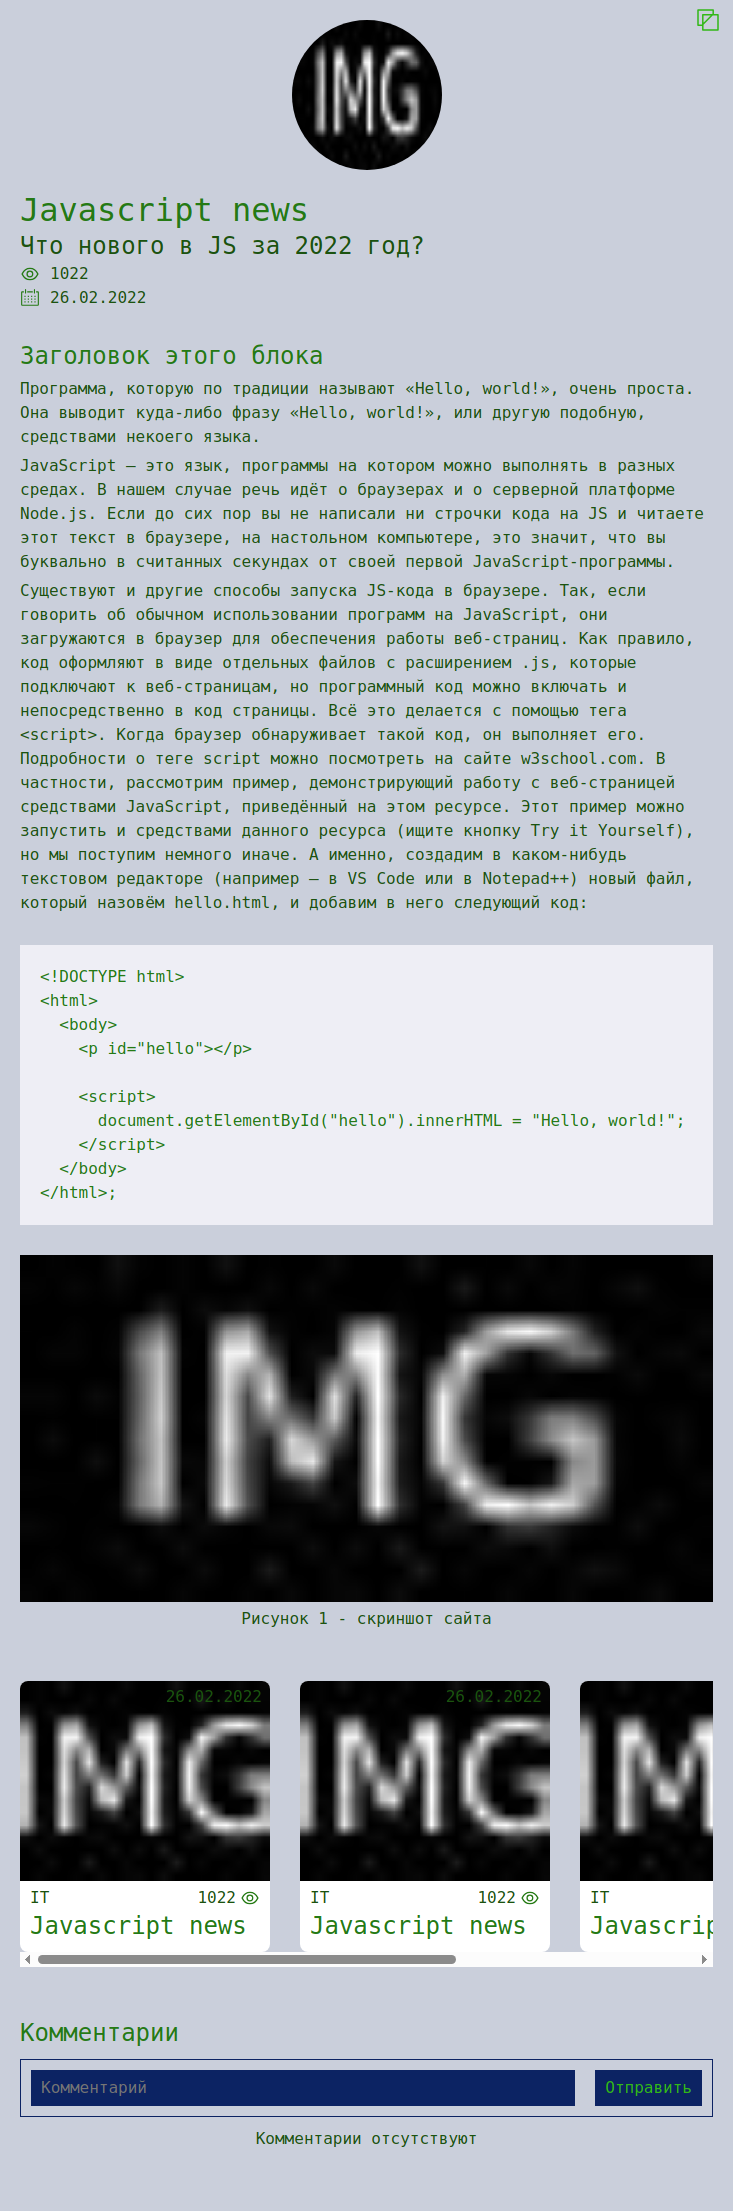
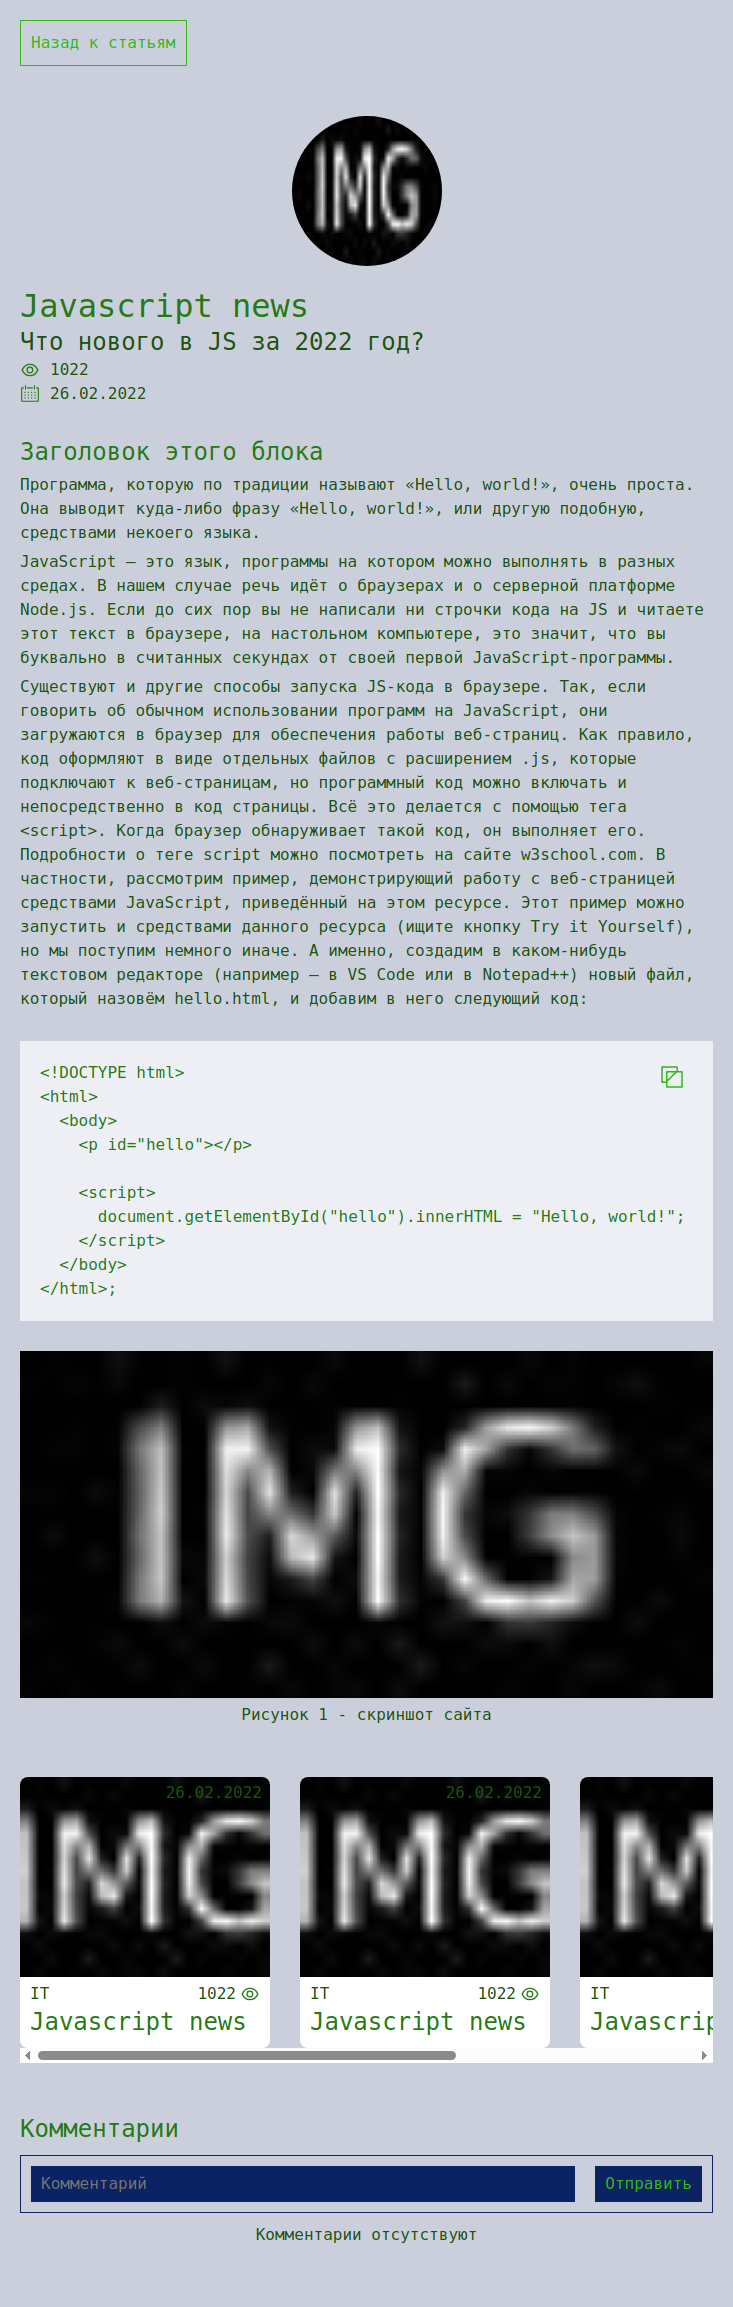
61

diff --git a/src/shared/config/routerConfig/routerConfig.tsx b/src/shared/config/routerConfig/routerConfig.tsx
@@ -1,5 +1,6 @@
 import { AboutPageLazy } from "@/pages/AboutPage";
 import { ArticleDetailsPageLazy } from "@/pages/ArticleDetailsPage";
+import { ArticleEditPageLazy } from "@/pages/ArticleEditPage";
 import { ArticlesPageLazy } from "@/pages/ArticlesPage";
 import { MainPageLazy } from "@/pages/MainPage";
 import { NotFoundPageLazy } from "@/pages/NotFoundPage";
@@ -17,6 +18,8 @@ export enum AppRoutes {
   ABOUT = "about",
   PROFILE = "profile",
   ARTICLES = "articles",
+  ARTICLE_CREATE = "article_create",
+  ARTICLE_EDIT = "article_edit",
   NOT_FOUND = "not_found",
 }
 
@@ -25,6 +28,8 @@ export const RoutePath: Record<AppRoutes, string> = {
   [AppRoutes.ABOUT]: "/about",
   [AppRoutes.PROFILE]: "/profile",
   [AppRoutes.ARTICLES]: "/articles",
+  [AppRoutes.ARTICLE_CREATE]: "/articles/new",
+  [AppRoutes.ARTICLE_EDIT]: "/articles/:id/edit",
   [AppRoutes.NOT_FOUND]: "*",
 };
 
@@ -40,6 +45,16 @@ export const routeConfig: RouteItem[] = [
   {
     path: `${RoutePath.articles}/:id`,
     element: <ArticleDetailsPageLazy />,
+    authOnly: true,
+  },
+  {
+    path: RoutePath.article_create,
+    element: <ArticleEditPageLazy />,
+    authOnly: true,
+  },
+  {
+    path: RoutePath.article_edit,
+    element: <ArticleEditPageLazy />,
     authOnly: true,
   },
   { path: RoutePath.not_found, element: <NotFoundPageLazy /> },

diff --git a/src/pages/ArticleDetailsPage/ui/ArticleDetailsHeader/AritcleDetailsHeader.tsx b/src/pages/ArticleDetailsPage/ui/ArticleDetailsHeader/AritcleDetailsHeader.tsx
@@ -1,0 +1,39 @@
+import { RoutePath } from "@/shared/config";
+import { classNames } from "@/shared/lib";
+import { useAppSelector } from "@/shared/model";
+import { AppLink } from "@/shared/ui";
+import { memo } from "react";
+import { useTranslation } from "react-i18next";
+import { getCanEditArticle } from "../../model/selectors/article";
+import styles from "./AritcleDetailsHeader.module.scss";
+
+interface AritcleDetailsHeaderProps {
+  className?: string;
+  articleId: string;
+}
+
+export const AritcleDetailsHeader = memo(function AritcleDetailsHeader({
+  className,
+  articleId,
+}: AritcleDetailsHeaderProps) {
+  const canEdit = useAppSelector(getCanEditArticle);
+  const { t } = useTranslation("articleDetailsPage", {
+    keyPrefix: "AritcleDetailsHeader",
+  });
+
+  return (
+    <div className={classNames(styles.header, {}, [className])}>
+      <AppLink to={RoutePath.articles} variant="outline">
+        {t("Назад к статьям")}
+      </AppLink>
+      {canEdit && (
+        <AppLink
+          to={RoutePath.article_edit.replace(":id", articleId)}
+          variant="outline"
+        >
+          {t("Редактировать статью")}
+        </AppLink>
+      )}
+    </div>
+  );
+});

diff --git a/src/pages/ArticleDetailsPage/ui/ArticleDetailsHeader/AritcleDetailsHeader.stories.tsx b/src/pages/ArticleDetailsPage/ui/ArticleDetailsHeader/AritcleDetailsHeader.stories.tsx
@@ -1,0 +1,29 @@
+import { mockArticle } from "@/entities/Article";
+import { mockUser } from "@/entities/User";
+import { withRouterProvider, withStoreProvider } from "@/shared/lib/decorators";
+import type { Meta, StoryObj } from "@storybook/react";
+import { AritcleDetailsHeader } from "./AritcleDetailsHeader";
+
+const meta = {
+  title: "pages/ArticleDetailsPage/AritcleDetailsHeader",
+  component: AritcleDetailsHeader,
+  decorators: [withRouterProvider()],
+} satisfies Meta<typeof AritcleDetailsHeader>;
+
+export default meta;
+type Story = StoryObj<typeof meta>;
+
+export const Default: Story = {
+  decorators: [withStoreProvider()],
+  args: { articleId: "1" },
+};
+
+export const CanEdit: Story = {
+  decorators: [
+    withStoreProvider({
+      user: { user: mockUser, _initialized: true },
+      articleDetails: { isLoading: false, data: mockArticle },
+    }),
+  ],
+  args: { articleId: "1" },
+};

diff --git a/src/pages/ArticleEditPage/ui/ArticleEditPage/ArticleEditPage.stories.tsx b/src/pages/ArticleEditPage/ui/ArticleEditPage/ArticleEditPage.stories.tsx
@@ -1,0 +1,27 @@
+import { withRouterProvider, withStoreProvider } from "@/shared/lib/decorators";
+import type { Meta, StoryObj } from "@storybook/react";
+import { ArticleEditPage } from "./ArticleEditPage";
+
+const meta = {
+  title: "pages/ArticleEditPage/ArticleEditPage",
+  component: ArticleEditPage,
+  decorators: [withStoreProvider()],
+} satisfies Meta<typeof ArticleEditPage>;
+
+export default meta;
+type Story = StoryObj<typeof meta>;
+
+export const Create: Story = {
+  decorators: [
+    withRouterProvider({ path: "/articles/new", route: "/articles/new" }),
+  ],
+};
+
+export const Edit: Story = {
+  decorators: [
+    withRouterProvider({
+      path: "/articles/:id/edit",
+      route: "/articles/1/edit",
+    }),
+  ],
+};

diff --git a/src/app/types/i18n.d.ts b/src/app/types/i18n.d.ts
@@ -1,6 +1,7 @@
 import "i18next";
 import aboutPage from "../../../public/locales/ru/aboutPage.json";
 import articleDetailsPage from "../../../public/locales/ru/articleDetailsPage.json";
+import articleEditPage from "../../../public/locales/ru/articleEditPage.json";
 import mainPage from "../../../public/locales/ru/mainPage.json";
 import notFoundPage from "../../../public/locales/ru/notFoundPage.json";
 import profilePage from "../../../public/locales/ru/profilePage.json";
@@ -16,6 +17,7 @@ declare module "i18next" {
       profilePage: typeof profilePage;
       notFoundPage: typeof notFoundPage;
       articleDetailsPage: typeof articleDetailsPage;
+      articleEditPage: typeof articleEditPage;
     };
   }
 }

diff --git a/src/pages/ArticleDetailsPage/ui/ArticleDetailsPage/ArticleDetailsPage.tsx b/src/pages/ArticleDetailsPage/ui/ArticleDetailsPage/ArticleDetailsPage.tsx
@@ -16,6 +16,7 @@ import {
   getIsLoading,
 } from "../../model/slices/articleCommentsSlice";
 import { getArticleRecomendations } from "../../model/slices/articleDetailsPageSlice";
+import { AritcleDetailsHeader } from "../ArticleDetailsHeader/AritcleDetailsHeader";
 import styles from "./ArticleDetailsPage.module.scss";
 
 export const ArticleDetailsPage: FC = memo(function ArticleDetailsPage() {
@@ -46,6 +47,7 @@ export const ArticleDetailsPage: FC = memo(function ArticleDetailsPage() {
 
   return (
     <Page className={styles.articleDetails}>
+      <AritcleDetailsHeader articleId={id} />
       <ArticleDetails id={id} />
       <div>
         <ArticleList

diff --git a/src/pages/ArticleEditPage/ui/ArticleEditPage/ArticleEditPage.tsx b/src/pages/ArticleEditPage/ui/ArticleEditPage/ArticleEditPage.tsx
@@ -1,0 +1,16 @@
+import { Page } from "@/widgets/Page";
+import { FC, memo } from "react";
+import { useTranslation } from "react-i18next";
+import { useParams } from "react-router-dom";
+
+export const ArticleEditPage: FC = memo(function ArticleEditPage() {
+  const { t } = useTranslation("articleEditPage");
+  const { id } = useParams<{ id: string }>();
+  const isEdit = Boolean(id);
+
+  return (
+    <Page>{isEdit ? t("Редактирование статьи") : t("Создание статьи")}</Page>
+  );
+});
+
+export default ArticleEditPage;

diff --git a/src/shared/ui/Code/Code.tsx b/src/shared/ui/Code/Code.tsx
@@ -1,3 +1,4 @@
+import { classNames } from "@/shared/lib";
 import { memo, useCallback } from "react";
 import CopyIcon from "../../assets/icons/copy.svg";
 import { Button } from "../Button/Button";
@@ -14,7 +15,7 @@ export const Code = memo(function Code({ className, text }: CodeProps) {
   }, [text]);
 
   return (
-    <pre className={className}>
+    <pre className={classNames(styles.codeWrapper, {}, [className])}>
       <Button onClick={handleCopyClick} className={styles.copyBtn}>
         <CopyIcon />
       </Button>

diff --git a/src/shared/ui/Code/Code.module.scss b/src/shared/ui/Code/Code.module.scss
@@ -1,13 +1,17 @@
 .code {
-  font: var(--font-md);
-  position: relative;
   display: block;
-  padding: 20px;
-  background-color: var(--code-bg-color);
 }
 
 .copy-btn {
   position: absolute;
   top: 20px;
   right: 20px;
+}
+
+.code-wrapper {
+  position: relative;
+  display: block;
+  padding: 20px;
+  font: var(--font-md);
+  background-color: var(--code-bg-color);
 }

diff --git a/src/pages/ArticleDetailsPage/model/selectors/article.ts b/src/pages/ArticleDetailsPage/model/selectors/article.ts
@@ -1,0 +1,9 @@
+import { articleDetailsSelectors } from "@/entities/Article";
+import { userSelectors } from "@/entities/User";
+import { createSelector } from "@reduxjs/toolkit";
+
+export const getCanEditArticle = createSelector(
+  userSelectors.getUserData,
+  articleDetailsSelectors.getData,
+  (user, article) => user && article && user.id === article.user.id,
+);

diff --git a/src/entities/Article/model/services/fetchArticleDetails.ts b/src/entities/Article/model/services/fetchArticleDetails.ts
@@ -12,6 +12,11 @@ export const fetchArticleDetails = createAsyncThunk<
     try {
       const { data } = await api.get<Article | undefined>(
         `/articles/${articleId}`,
+        {
+          params: {
+            _expand: "user",
+          },
+        },
       );
 
       if (!data) {

diff --git a/src/pages/ArticleEditPage/ui/ArticleEditPage/ArticleEditPage.lazy.tsx b/src/pages/ArticleEditPage/ui/ArticleEditPage/ArticleEditPage.lazy.tsx
@@ -1,0 +1,6 @@
+import { lazy } from "react";
+
+export const ArticleEditPageLazy = lazy(async () => {
+  await new Promise((resolve) => setTimeout(resolve, 1000));
+  return import("./ArticleEditPage");
+});
